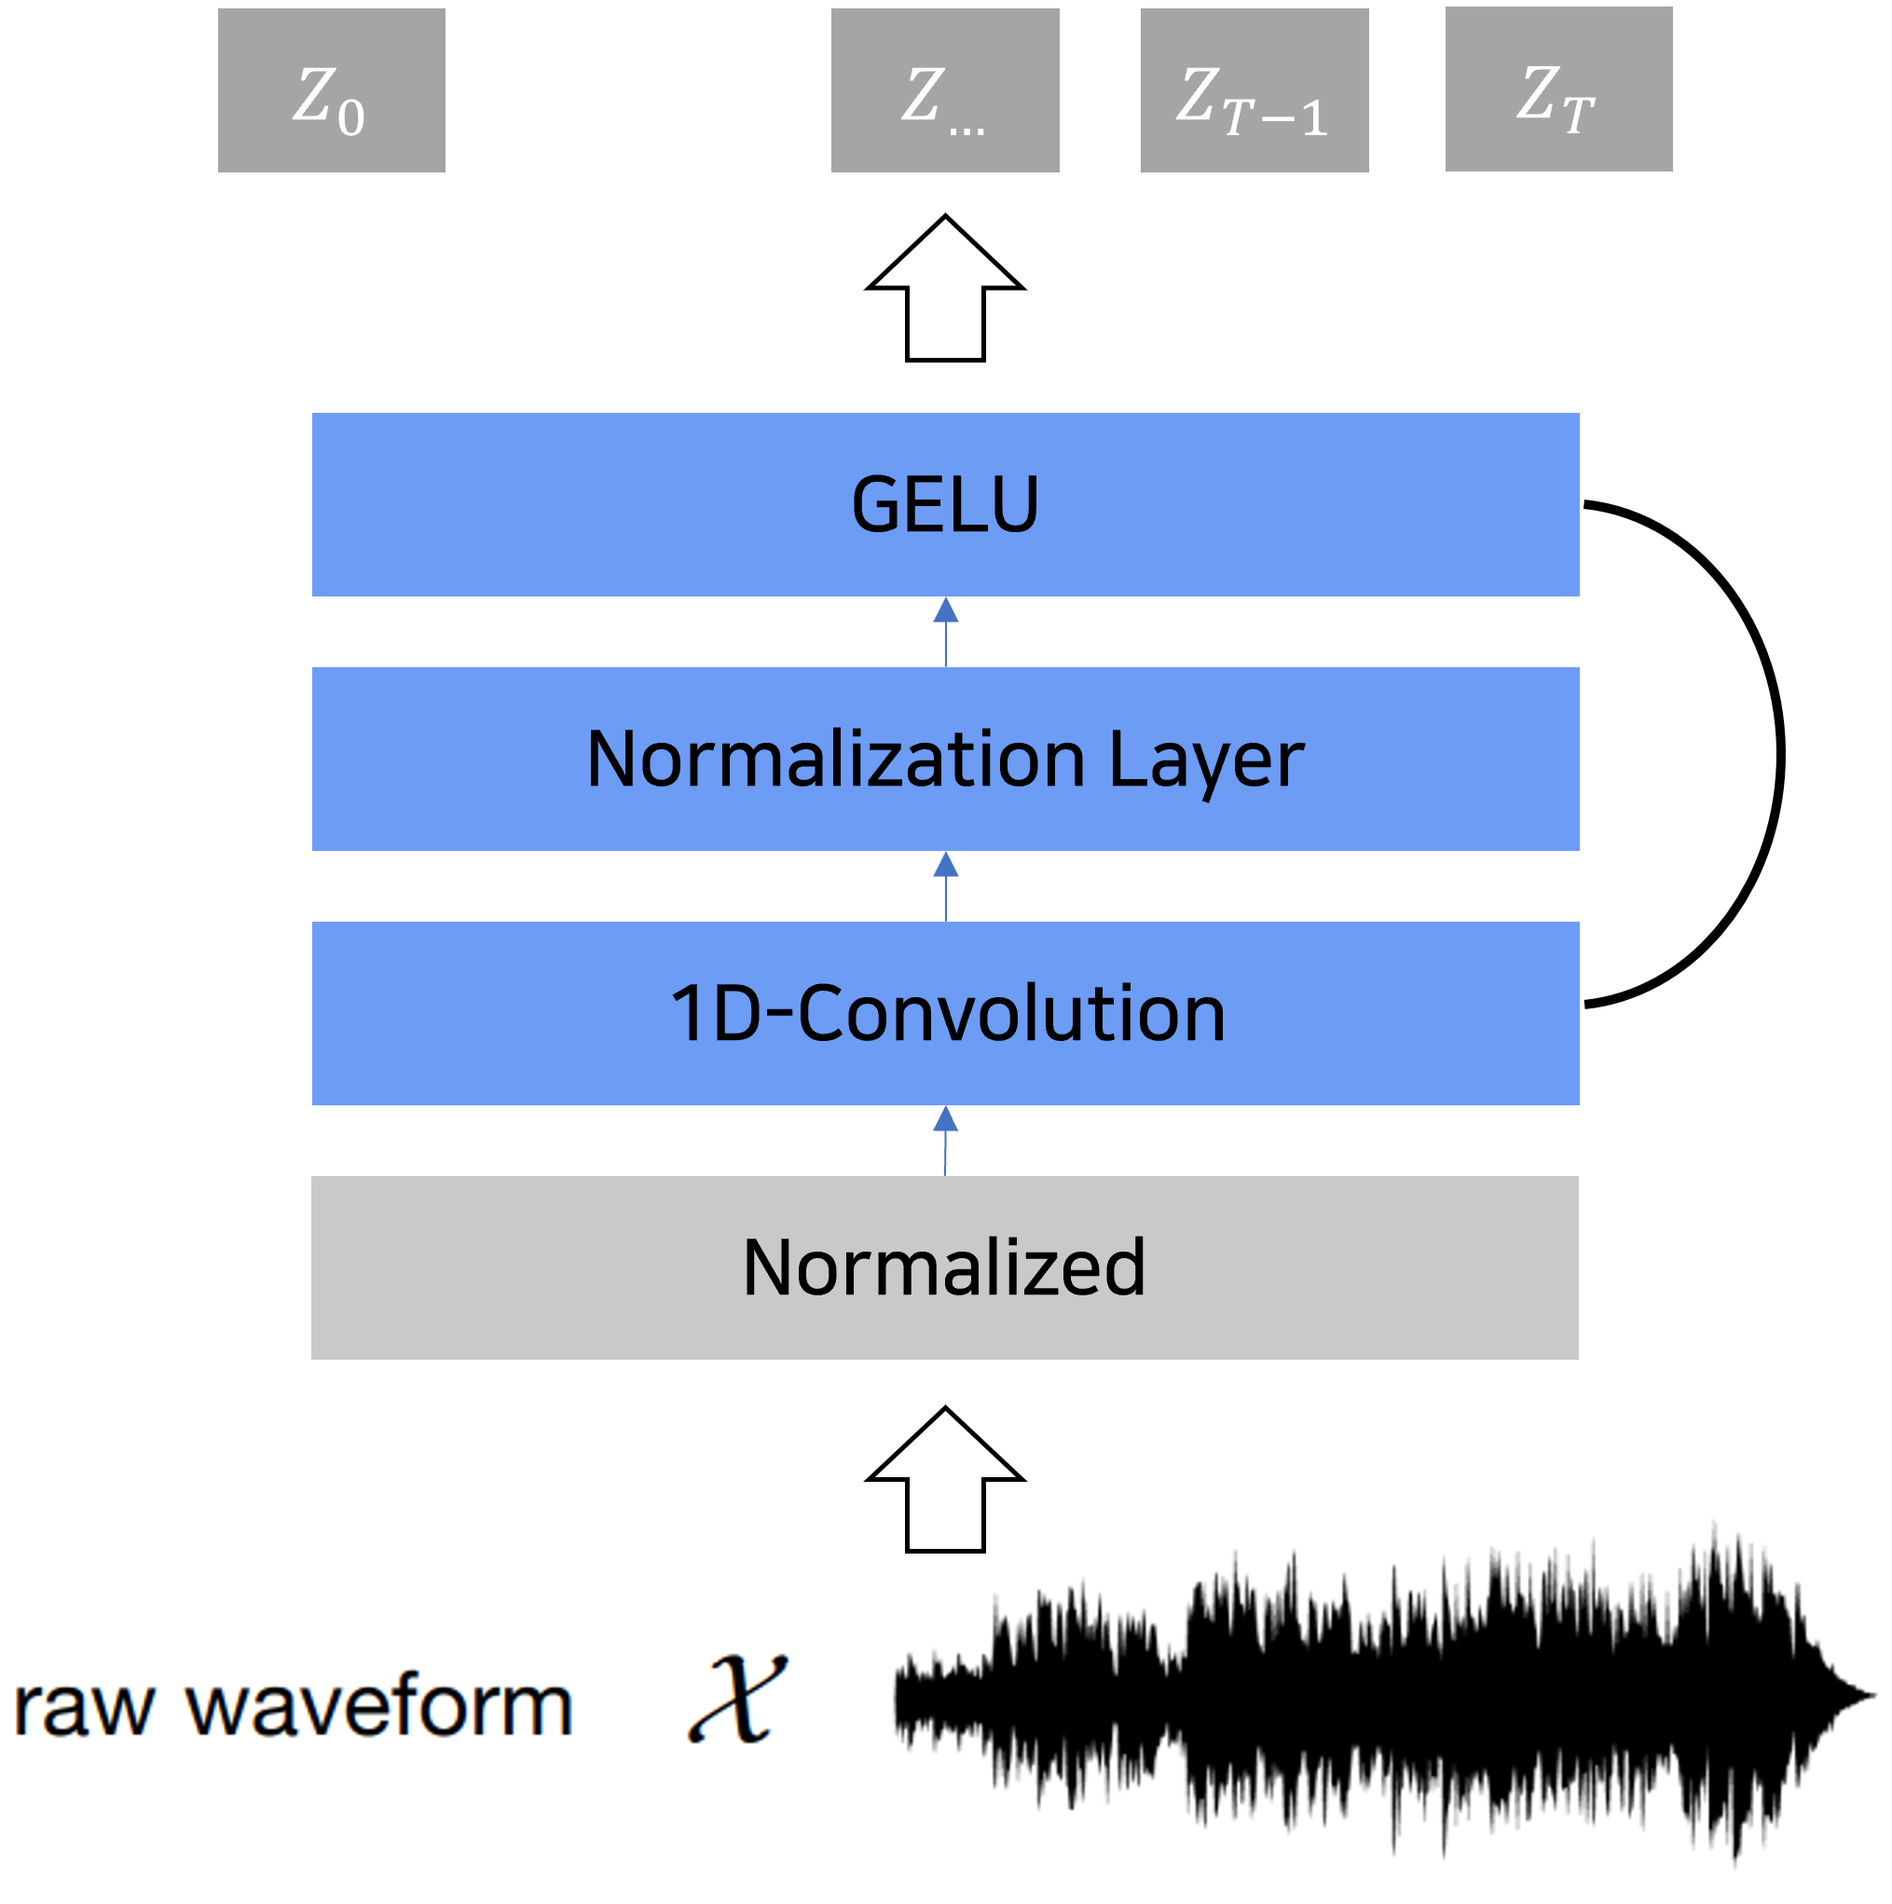
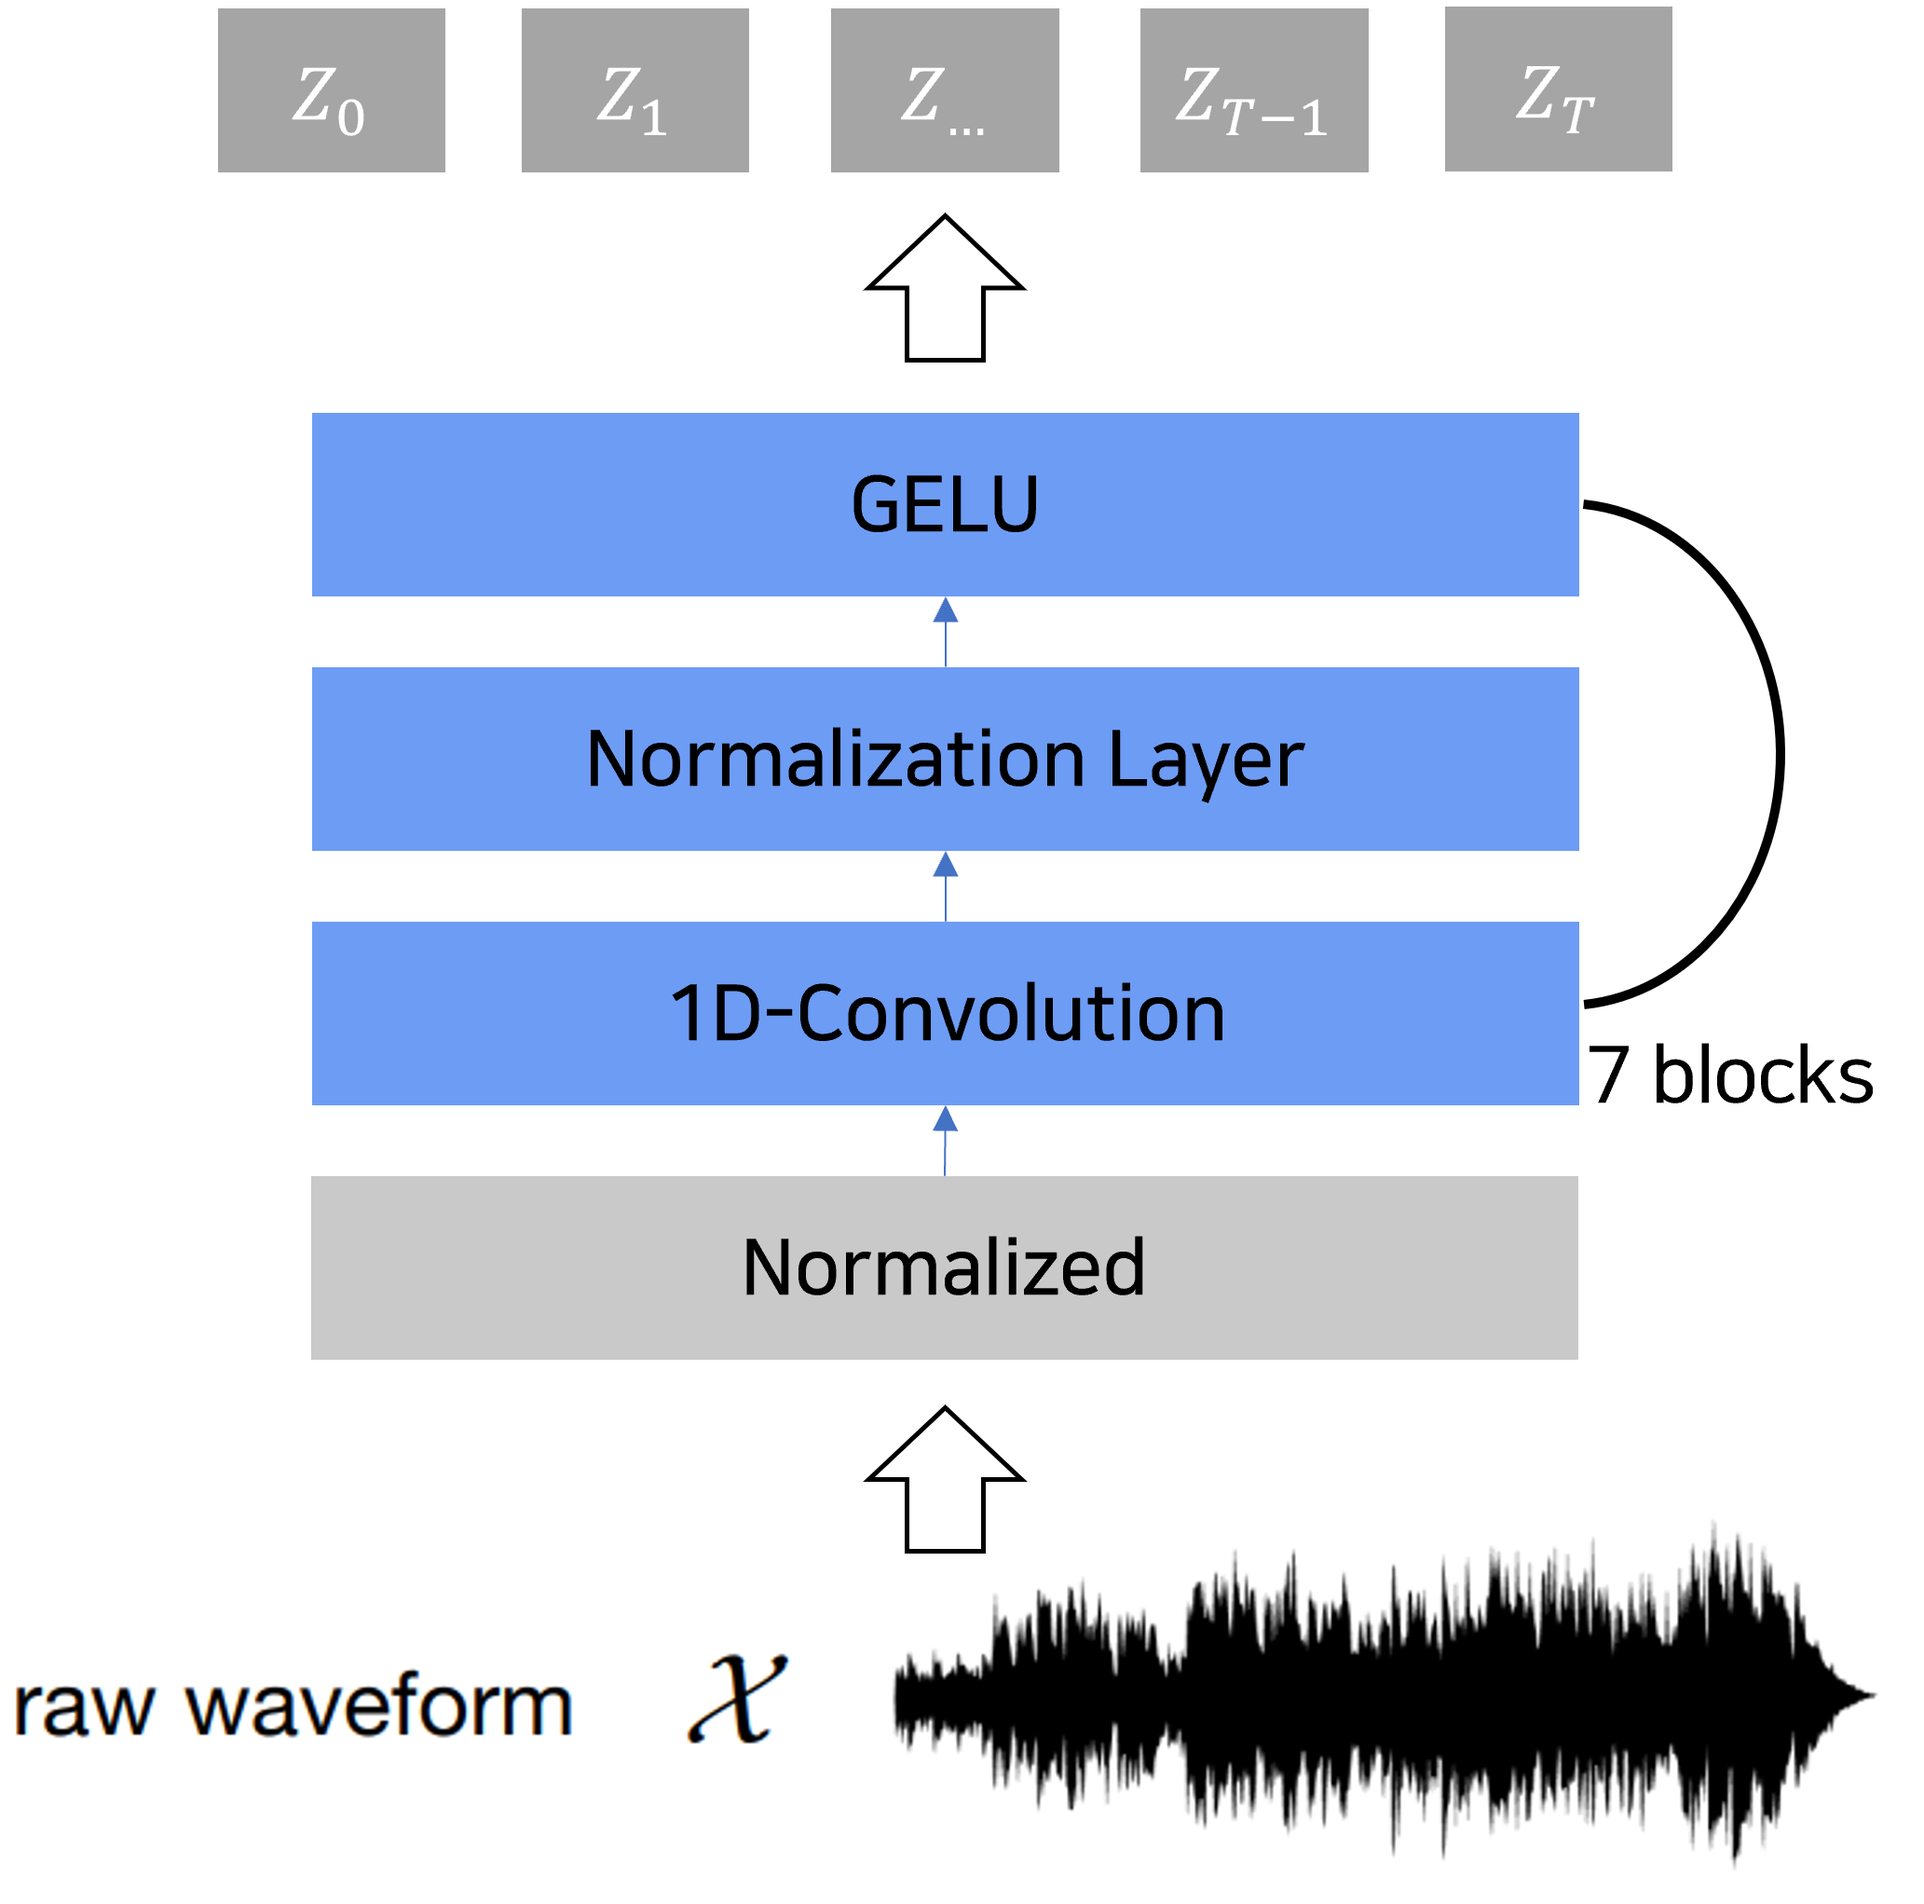
wav2vec 2.0 paper review

diff --git a/_posts/2021-12-23-음성-인식의-종결-Wav2vec-2.0.md b/_posts/2021-12-23-음성-인식의-종결-Wav2vec-2.0.md
@@ -9,7 +9,7 @@ image: /assets/img/wav2vec2.0/main.png
 ---
 
 
-## Research Purpose
+## **Research Purpose**
 
 - Unlabeled speech data와 적은 Labeled speech data로 충분히 음성인식기를 <br>
    개발하기 위해 **Self-supervised Learning(pre-training)** 알고리즘 활용<br>
@@ -21,14 +21,14 @@ image: /assets/img/wav2vec2.0/main.png
 
 
 
-## Abstract
+## **Abstract**
 
-### Architecture<br>
+### **Architecture**<br>
 
 ![architecture_pre_fine](/assets/img/wav2vec2.0/architecture_pre_fine.png)<br>
 
 - Unlabeled speech data로 pre-training 이후, <br>
-   Labeled speech data로 fine-tuning을 진행하는 구성 (wav2vec)<br>
+   Labeled speech data로 fine-tuning을 진행하는 구성 (wav2vec)<br><br>
 
 
 
@@ -39,7 +39,7 @@ image: /assets/img/wav2vec2.0/main.png
 
 - Transformer의 encoder로 context C를 생성하고, BERT의 MLM*과 유사한 아키텍처 (VQ)<br>
 
-\* MLM: Masked Language Modeling<br>
+\* MLM: Masked Language Modeling<br><br>
 
 
 
@@ -53,13 +53,13 @@ image: /assets/img/wav2vec2.0/main.png
 - 최종 Loss는 Contrastive Loss와 Diversity Loss 활용 **(New)**<br>
 
 - 이전 연구(vq-wav2vec)과 다르게 quantization에 이어 contextualized<br>
-   representations를 진행한 것과 다르게, **두 과정을 end-to-end로 진행 (New)**<br>
+   representations를 진행한 것과 다르게, **두 과정을 end-to-end로 진행 (New)**<br><br>
 
 
 
 
 
-### Result <br>
+### **Result** <br>
 
 ![abs_result1](/assets/img/wav2vec2.0/abs_result1.png)<br>
 
@@ -67,48 +67,49 @@ image: /assets/img/wav2vec2.0/main.png
    Libri-speech 960h Labeled data set으로 학습했을 때<br>
    Clean(5.4h)의 경우 1.8WER* 달성, other(5.1h)의 경우 3.3WER 달성<br>
 
-\* WER(Word error rate): 단순 단어 오류 수치로 음성인식에서 사용하는 기본 성능 측정 단위<br>
+\* WER(Word error rate): 단순 단어 오류 수치로 음성인식에서 사용하는 기본 성능 측정 단위<br><br>
 
 
 
 ![abs_result2](/assets/img/wav2vec2.0/abs_result2.png)<br>
 
 - Libri-light의 약 10분 Labeled data set로 학습했을 때, 각각 4.8/8.2 WER 달성<br>
-- 제한된 개수의 labeled data로 이전 최신 알고리즘*과 비교할 수준의 충분한 가능성을 보여주는 것이 핵심<br>
+- 제한된 개수의 labeled data로 이전 최신 알고리즘*과 비교할 수준의 충분한 가능성을 보여주는 것이 핵심<br><br>
 
 
 
 
 
-## Model Architecture(Pre-training)
-### Summary<br>
+## **Model Architecture(Pre-training)**
+### **Summary**<br>
 
-![architecture_summary_pre](/assets/img/wav2vec2.0/architecture_summary_pre.png)<br>
-
-
-
-### Feature Encoder – Quantization Module<br>
-
-![architecture_feat_quant](/assets/img/wav2vec2.0/architecture_feat_quant.png)<br>
+![architecture_summary_pre](/assets/img/wav2vec2.0/architecture_summary_pre.png)<br><br>
 
 
 
-### Feature Encoder (CNN, Latent)<br>
+### **Feature Encoder – Quantization Module<br>**
+
+![architecture_feat_quant](/assets/img/wav2vec2.0/architecture_feat_quant.png)<br><br>
+
+
+
+### **Feature Encoder (CNN, Latent)<br>**
 
 ![architecture_feat](/assets/img/wav2vec2.0/architecture_feat.png)<br>
 
 - Feature encoder는 400개 sample <br>
    또는 25ms audio의 input을 가짐<br>
 - Raw waveform을 20ms stride로 49hz output을<br>
+   $$Z_{0}, Z_{…}, Z_{T}$$ 의 sequence로 생성해 차원의 수를 축소<br>
 
 1) Raw waveform → Normalized<br>
 
 2) 7 blocks CNN with **512 channels** (single-dim)<br>
-    Strides (5,2,2,2,2,2,2), Kernel width (10,3,3,3,3,2,2)<br>
+    Strides (5,2,2,2,2,2,2), Kernel width (10,3,3,3,3,2,2)<br><br>
 
 
 
-### Generate codebook
+### **Generate codebook**
 
 - Quantization 과정 이전에 쌍을 이루는 codebook 생성<br>
 
@@ -118,13 +119,13 @@ image: /assets/img/wav2vec2.0/main.png
 
 2) 모든 codebook에 V=320(Z 개수), G=2(그룹의 수)를 부여함<br>
 
-3) 이론상 $$V^g$$ = 320 x 320 = 102400 speech unit 생성<br>
+3) 이론상 $$V^g$$ = 320 x 320 = 102400 speech unit 생성<br><br>
 
 
 
 
 
-### Quantization Module<br>
+### **Quantization Module<br>**
 
 ![architecture_quant](/assets/img/wav2vec2.0/architecture_quant.png)<br>
 
@@ -137,11 +138,11 @@ image: /assets/img/wav2vec2.0/main.png
 
 2) 결과물인 Logits에 Gumbel-softmax 수행<br>
 
-3) One-hot vectors 추출<br>
+3) One-hot vectors 추출<br><br>
 
 
 
-### Gumbel-Softmax<br>
+### **Gumbel-Softmax<br>**
 
 ![gumbel_softmax](/assets/img/wav2vec2.0/gumbel_softmax.png)<br>
 
@@ -154,24 +155,24 @@ image: /assets/img/wav2vec2.0/main.png
 3) Argmax를 통해 one-hot vector 생성<br>
 
 4) 결과 vector e와 ont-hot과 연결되어 <br>
-    최종 Quantized tartgets Q 생성 <br>
+    최종 Quantized tartgets Q 생성 <br><br>
 
 ![gumbel_softmax_exp](/assets/img/wav2vec2.0/gumbel_softmax_exp.png)<br>
 
 - 수식<br>
    $$l_{g, k}$$ – Z로 생성한 logits<br>
     τ – temperature(분포 조절 파라미터) <br> 
-    $$n_{k} – -log〖(-log(u_{k} ))〗$$ | $$u_{k}$$ - sampled<br>
+    $$n_{k} – -log〖(-log(u_{k} ))〗$$ | $$u_{k}$$ - sampled<br><br>
 
 
 
-### Transformer(Context Network) & Contrastive Loss<br>
+### **Transformer(Context Network) & Contrastive Loss<br>**
 
-![architecture_trans_cont](/assets/img/wav2vec2.0/architecture_trans_cont.png)<br>
+![architecture_trans_cont](/assets/img/wav2vec2.0/architecture_trans_cont.png)<br><br>
 
 
 
-### Masking<br>
+### **Masking**<br>
 
 ![architecture_mask](/assets/img/wav2vec2.0/architecture_mask.png)<br>
 
@@ -184,13 +185,13 @@ image: /assets/img/wav2vec2.0/main.png
 
 
 - 시작 인덱스가 중복되는 경우 상관 없이 <br>
- time-step에 따라 M시간(10개) Masking<br>
+ time-step에 따라 M시간(10개) Masking<br><br>
 
 
 
 
 
-### Transformers (Context Network) <br>
+### **Transformers (Context Network) <br>**
 
 ![architecture_trans](/assets/img/wav2vec2.0/architecture_trans.png)<br>
 
@@ -201,33 +202,31 @@ image: /assets/img/wav2vec2.0/main.png
     $$Z^l$$ 에 position vector추가 (self-attention을 위해)<br>
 
 3) 위 Input을 통해 Transformer encoder을 지나<br>
-    Context representations C를 output<br>
+    Context representations C를 output<br><br>
 
 
 
 
 
-## Training
+## **Training**
 
-### Objective – Contrastive Loss + Diversity Loss<br>
+### **Objective – Contrastive Loss + Diversity Loss<br>**
 
 ![objective](/assets/img/wav2vec2.0/objective.png)<br>
 
-- 기존에 Contrastive loss만 사용한 것과 다르게 Diversity loss와 함께 loss 합으로 진행<br>
+- 기존에 Contrastive loss만 사용한 것과 다르게 Diversity loss와 함께 loss 합으로 진행<br><br>
 
 
 
 
 
-### Contrastive Loss<br>
+### **Contrastive Loss<br>**
 
 ![contrastive_loss](/assets/img/wav2vec2.0/contrastive_loss.png)<br>
 
-- **Contrastive Loss**를 활용한 **Contrastive Learning**<br>
+- **Contrastive Loss**를 활용한 **Contrastive Learning**<br><br>
 
 ![contrastive_loss_exp](/assets/img/wav2vec2.0/contrastive_loss_exp.png)<br>
-
-
 
 - $$L_{m}$$함수는 기본적으로 softmax와 유사<br>
  context $$C_{t}$$ 와 Quantized $$q_{t}$$사이에 **sim 적용**<br>
@@ -238,28 +237,28 @@ image: /assets/img/wav2vec2.0/main.png
 
 $$c_{t}$$, $$q_{t}$$ – Positive       |  $$c_{t}$$,q~ – Negative<br>
 
-sim – cosine similarity | exp(a) – $$e^a$$<br>
-k – 현재까지의 평균 τ<br>
+$$sim – cosine similarity$$ | exp(a) – $$e^a$$<br>
+k – 현재까지의 평균 τ<br><br>
 
 
 
 
 
-### Diversity Loss<br>
+### **Diversity Loss<br>**
 
 ![diversity_loss](/assets/img/wav2vec2.0/diversity_loss.png)<br>
 
 - 생성한 codebook에서 V항목이 동일하게 자주 사용하도록 유도하기 위해 diversity loss 활용<br>
 - Diversity loss를 사용하지 않아 codeword 일부만 선택하게 될 경우 **잠재성을 잃음<br>**
-- Entropy 기반으로 계산 진행 (데이터 분포가 균일할 때 최대값을 추정) → $$L_{d}$$ 최소화되는 것이 목표<br>
+- Entropy 기반으로 계산 진행 (데이터 분포가 균일할 때 최대값을 추정) → $$L_{d}$$ 최소화되는 것이 목표<br><br>
 
 
 
 
 
-## Model Architecture(Fine-tuning)
+## **Model Architecture(Fine-tuning)**
 
-### Summary<br>
+### **Summary**<br>
 
 ![architecture_summary_fine](/assets/img/wav2vec2.0/architecture_summary_fine.png)<br>
 
@@ -273,7 +272,7 @@ k – 현재까지의 평균 τ<br>
 - **CTC loss**를 통해 optimize 진행<br>
 
 - SpecArgument로 **time-step 마다 Masking하여 overfitting을 방지**하여, 적은 label을 가진 데이터셋에 
-   더 낮은 에러율을 기록할 수 있도록 학습 (Regularization)<br>
+   더 낮은 에러율을 기록할 수 있도록 학습 (Regularization)<br><br>
 
 
 
@@ -281,35 +280,35 @@ k – 현재까지의 평균 τ<br>
 
 
 
-## Datasets
+## **Datasets**
 
-### Libri-speech<br>
+### **Libri-speech<br>**
 
 ![libri_speech](/assets/img/wav2vec2.0/libri_speech.png)<br>
 
 - LibriVox의 결과로, 음성 인식 연구에 가장 널리 사용되는 대규모 영어 음성 데이터 <br>
 - 한 번에 긴 발화시간을 갖는 약 1000시간의 오디오북 데이터 (16kHz Sampling)<br>
-- Data argument로 다양한 버전의 종류가 파생되어 나옴 clean or other<br>
+- Data argument로 다양한 버전의 종류가 파생되어 나옴 clean or other<br><br>
 
 
 
 
 
-## Results
+## **Results**
 
-### High-Resource Labeled Data Evaluation<br>
+### **High-Resource Labeled Data Evaluation<br>**
 
 ![results_high](/assets/img/wav2vec2.0/results_high.png)<br>
 
 - LibriVox(LV-60K)의 Unlabeled data set의 모든 데이터로 pre-training 후<br>
   Libri-speech 960h Labeled data set으로 fine-tuning 했을 때 (Large 기준)<br>
-  Clean(5.4h) – 1.8WER* 달성, other(5.1h) – 3.3WER 달성<br>
+  Clean(5.4h) – 1.8WER* 달성, other(5.1h) – 3.3WER 달성<br><br>
 
 
 
 
 
-### Low-Resource Labeled Data Evaluation<br>
+### **Low-Resource Labeled Data Evaluation<br>**
 
 ![results_low](/assets/img/wav2vec2.0/results_low.png)<br>
 
@@ -326,34 +325,34 @@ k – 현재까지의 평균 τ<br>
     Large 기준 **2.6/4.9 WER** 결과 확인<br>
 
 4) 100h Labeled data set으로 fine-tuning <br>
-    Large 기준 **2.0/4.0 WER** 결과 확인<br>
+    Large 기준 **2.0/4.0 WER** 결과 확인<br><br>
 
 
 
-### Phoneme Recognition on TIMIT<br>
+### **Phoneme Recognition on TIMIT<br>**
 
 ![results_timit](/assets/img/wav2vec2.0/results_timit.png)
 
 - 음소 인식을 위해 Unlabeled Libri-speech training data set의 모든 데이터로 pre-training 후<br>
    Phoneme에 대한 5시간 Labeled TIMIT training data로 fine-tuning 하여 학습 진행<br>
 
-- 이전 모델(vq-wav2vec)에 비해 각각 2.2/3.3 PER*이 줄어 23%/29%의 error 감소<br>
+- 이전 모델(vq-wav2vec)에 비해 각각 2.2/3.3 PER*이 줄어 23%/29%의 error 감소<br><br>
 
 
 
 
 
-## Conclusion
+## **Conclusion**
 
-### Presented<br>
+### **Presented**<br>
 
 1) Latent representations을 Masking하여 학습에 적용<br>
 
-2) Quantized speech representation으로 Contrastive task 수행<br>
+2) Quantized speech representation으로 Contrastive task 수행<br><br>
 
 
 
-### Achievement<br>
+### **Achievement**<br>
 
 1) Self-supervised learning으로 할 수 있는 최대한의 잠재력을 Unlabeled speech data로 보임<br>
 
@@ -361,4 +360,4 @@ k – 현재까지의 평균 τ<br>
 
 3) 특히 Noisy speech에서 새롭게 가장  높은 성능을 기록하는 기술을 선보임<br>
 
-4) Seq2seq 또는 word piece로 전환하여 더 큰 성능 향상의 기대 가능<br>
+4) Seq2seq 또는 word piece로 전환하여 더 큰 성능 향상의 기대 가능<br><br>
